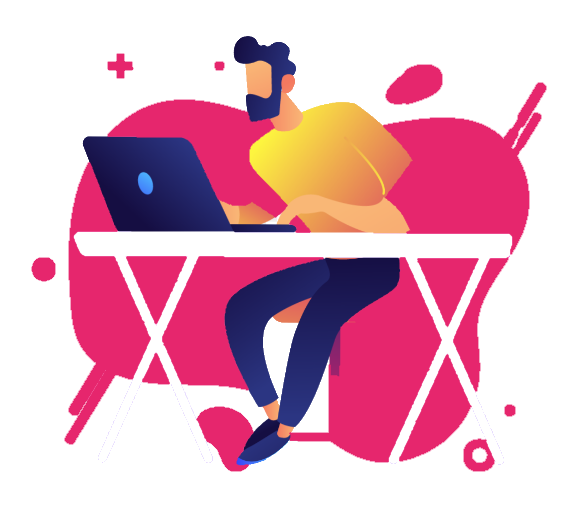
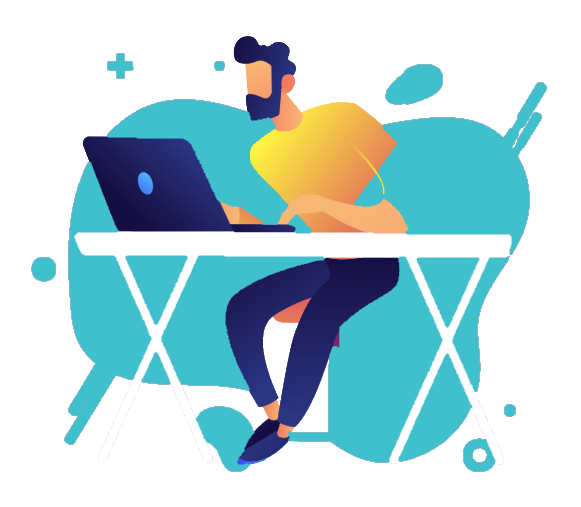
mudança de cores e add menu hambúrguer

diff --git a/assets/css/style.css b/assets/css/style.css
@@ -25,7 +25,7 @@
 /*Dark/White*/
 .container-modo{
     position: fixed;
-    top: 26px;
+    top: 90vh;
     right: 15px;
     z-index: +100;
 }
@@ -33,7 +33,7 @@
 .modo{
     width: 50px;
     height: 25px;
-    background: #E6266D;
+    background: #51C3CE;
     border-radius: 25px;
 }
 
@@ -97,16 +97,82 @@
     width: 70px;
 }
 
-.nav {
-    margin-right: 25px;
+#menu {
+  display: flex;
+  list-style: none;
+  gap: 0.5rem;
 }
 
-.nav ul{
-    display: flex;
-    flex-wrap: wrap;
+#menu a {
+  display: block;
+  padding: 0.5rem;
 }
 
-.nav ul li a{
+#btn-mobile {
+    display: none;
+  }
+  
+@media (max-width: 600px) {
+    #menu {
+        display: block;
+        position: absolute;
+        width: 100%;
+        top: 80px;
+        right: 0px;
+        background: #51C3CE;
+        transition: 0.6s;
+        z-index: 1000;
+        height: 0px;
+        visibility: hidden;
+        overflow-y: hidden;
+    }
+    #nav.active #menu {
+        height: calc(100vh - 80px);
+        visibility: visible;
+        overflow-y: auto;
+    }
+    #menu a {
+        padding: 1rem 0;
+        margin: 0 1rem;
+        border-bottom: 2px solid rgba(0, 0, 0, 0.37);
+        color: #080017;
+    }
+    #btn-mobile {
+        display: flex;
+        padding: 0.5rem 1rem;
+        font-size: 1rem;
+        border: none;
+        background: none;
+        cursor: pointer;
+        gap: 0.5rem;
+    }
+    #hamburger {
+        border-top: 2px solid;
+        width: 20px;
+    }
+    #hamburger::after,#hamburger::before {
+        content: '';
+        display: block;
+        width: 20px;
+        height: 2px;
+        background: currentColor;
+        margin-top: 5px;
+        transition: 0.3s;
+        position: relative;
+    }
+    #nav.active #hamburger {
+        border-top-color: transparent;
+    }
+    #nav.active #hamburger::before {
+        transform: rotate(135deg);
+    }
+    #nav.active #hamburger::after {
+        transform: rotate(-135deg);
+        top: -7px;
+    }
+}
+
+#nav ul li a{
     margin-left: 10px;
     padding: 15px;
     text-transform: uppercase;
@@ -115,8 +181,8 @@
     font-weight: 500;
 }
 
-.nav ul li a:hover{
-    background: #E6266D;
+#nav ul li a:hover{
+    background: #51C3CE;
     transition: .3s linear;
 }
 /*Header*/
@@ -171,7 +237,7 @@
 
 .intro-text button{
     width: max-content;
-    background: #E6266D;
+    background: #51C3CE;
     padding: 1rem 1.5rem;
     font-size: 1.25rem;
     text-transform: uppercase;
@@ -197,7 +263,7 @@
 
 .icons-intro a i:hover{
     /* color: #EA1796; */ /*outro rosa*/
-    color: #E6266D;
+    color: #51C3CE;
 }
 
 .last a i{
@@ -253,7 +319,7 @@
 }
 
 .icons-tecno ul li i:hover{
-    color: #E6266D;
+    color: #51C3CE;
 }
 
 ::-webkit-scrollbar{
@@ -261,10 +327,10 @@
     position: relative;  
 }
 ::-webkit-scrollbar-button{
-    background: #E6266D;
+    background: #51C3CE;
 }
 ::-webkit-scrollbar-thumb{
-    background: #E6266D;
+    background: #51C3CE;
 }
 
 .tecnologias-bg{
@@ -293,9 +359,9 @@
 }
 
 .grid-container .item{
-    background: #E6266D;
+    background: #51C3CE;
     position: relative;
-    box-shadow: -10px 10px 0px #a00948;
+    box-shadow: -10px 10px 0px #75d7e0;
 }
 
 .grid-container .item:nth-child(1){
@@ -332,7 +398,7 @@
     position: absolute;
     width: 100%;
     height: 100%;
-    background: #E6266D;
+    background: #51C3CE;
     display: flex;
     flex-direction: column;
     align-items: center;
@@ -397,7 +463,7 @@
 }
 
 .icons-contato .icons a i:hover{
-    color: #E6266D;
+    color: #51C3CE;
 }
 
 .icons-contato .icons a:nth-child(3){
@@ -415,24 +481,8 @@
 /*Medias*/
 @media(max-width: 760px){
     .header{
-        flex-direction: column;
+        /* flex-direction: column; */
         position: relative;
-    }
-    .nav{
-        margin-top: 15px;
-        margin-right: 0;
-    }
-    .nav ul{
-        justify-content: center;
-        align-items: center;
-    }
-    .nav ul li{
-        margin-bottom: 10px;
-    }
-    .nav ul li a{
-        font-size: .6rem;
-        margin-left: 0;
-        padding: 10px;
     }
     .intro-img img{
         width: 325px;

diff --git a/index.html b/index.html
@@ -13,14 +13,17 @@
         <header class="header-bg">
             <div class="header">
                 <img src="assets/img/logo.png" alt="" id="logo">
-                <nav class="nav">
-                    <ul>
-                        <li><a href="#">Home</a></li>
-                        <li><a href="#tecnologias">Tecnologias</a></li>
-                        <li><a href="#projetos">Projetos</a></li>
-                        <li><a href="#contatos">Contato</a></li>
+                <nav id="nav">
+                    <button id="btn-mobile">
+                      <span id="hamburger"></span>
+                    </button>
+                    <ul id="menu">
+                      <li><a href="#">Home</a></li>
+                      <li><a href="#tecnologias">Tecnologias</a></li>
+                      <li><a href="#projetos">Projetos</a></li>
+                      <li><a href="#contatos">Contatos</a></li>
                     </ul>
-                </nav>
+                  </nav>
             </div>
 
             <div class="container-modo">

diff --git a/assets/js/script.js b/assets/js/script.js
@@ -13,3 +13,21 @@ function active(){
     })
 }
     active()
+
+    const btnMobile = document.getElementById('btn-mobile');
+
+function toggleMenu(event) {
+    if (event.type === 'touchstart') event.preventDefault();
+    const nav = document.getElementById('nav');
+    nav.classList.toggle('active');
+    const active = nav.classList.contains('active');
+    event.currentTarget.setAttribute('aria-expanded', active);
+    if (active) {
+        event.currentTarget.setAttribute('aria-label', 'Fechar Menu');
+    } else {
+        event.currentTarget.setAttribute('aria-label', 'Abrir Menu');
+    }
+}   btnMobile.addEventListener('click', toggleMenu);
+    btnMobile.addEventListener('touchstart', toggleMenu);
+    
+    
